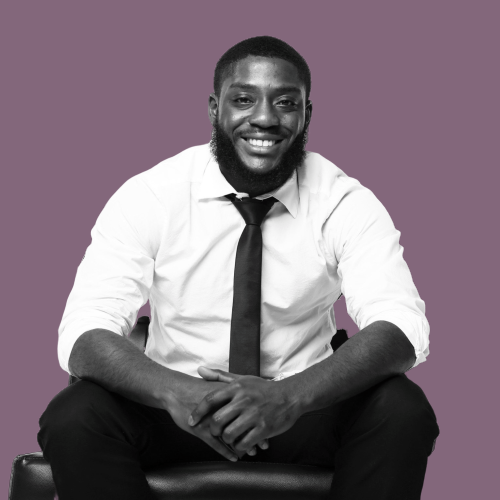
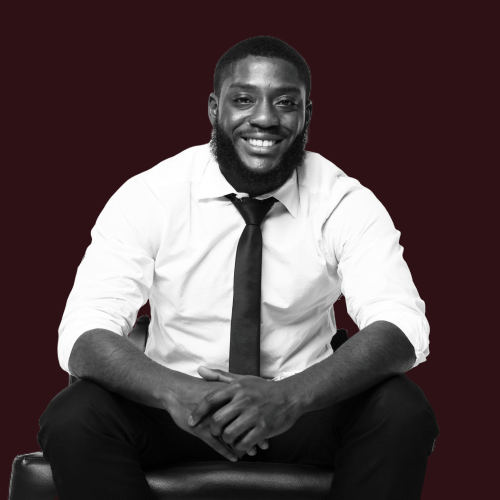
commit

diff --git a/src/css/FooterHome.css b/src/css/FooterHome.css
@@ -56,7 +56,7 @@
 }
 
 .footer{
-   background-color: #424949;
+   background-color: #2E1114;
     width: 100%;
     margin: auto;
 }
@@ -70,38 +70,32 @@
 	-moz-osx-font-smoothing:grayscale;
 }
 
-.fa-envelope {
-  background: none;
-  color: white;
-  margin-right:40px;
-  font-size:380%;
-}
 
 .fa-facebook {
   background: none;
   color: white;
   margin-right:40px;
-  font-size:380%;
+  font-size:250%;
 }
 
 .fa-instagram {
   background: none;
   color: white;
   margin-right:40px;
-  font-size:380%;
+  font-size:250%;
 }
 
 .fa-soundcloud {
   background: none;
   color: white;
   margin-right:40px;
-  font-size:380%;
+  font-size:250%;
 }
 
 .fa-youtube {
   background: none;
   color: white;
-  font-size:380%;
+  font-size:250%;
 }
 
 

diff --git a/src/css2/HomePage2.css b/src/css2/HomePage2.css
@@ -1,23 +1,23 @@
 .body{
-	background-color: #83677B;
+	background-color: #393f4d;
 }
 
 .display{
 	
 	font-family: 'Playfair Display';
-	color: #2E1114;
+	color: #feda6a;
 	font-size: 110px;
 }
 
 .display1{
 	
 	font-family: 'Playfair Display';
-	color: #83677B;
+	color: #393f4d;
 	font-size: 50px;
 }
 
 .container1{
-	background-color: #2E1114;
+	background-color: #feda6a;
 	left: 30px;
 }
 

diff --git a/src/css/HomePage.css b/src/css/HomePage.css
@@ -1,23 +1,23 @@
 .body{
-	background-color: #424949;
+	background-color: #2E1114;
 }
 
 .display{
 	
 	font-family: 'Playfair Display';
-	color: #feda6a;
+	color: white;
 	font-size: 110px;
 }
 
 .display1{
 	
 	font-family: 'Playfair Display';
-	color: #424949;
+	color: #2E1114;
 	font-size: 50px;
 }
 
 .container1{
-	background-color: #feda6a;
+	background-color: white;
 	left: 30px;
 }
 

diff --git a/src/css2/FooterHome2.css b/src/css2/FooterHome2.css
@@ -56,7 +56,7 @@
 }
 
 .footer{
-   background-color: #83677B;
+   background-color: #393f4d;
     width: 100%;
     margin: auto;
 }

diff --git a/src/HeaderHome2.php b/src/HeaderHome2.php
@@ -11,12 +11,12 @@
 <link href='https://fonts.googleapis.com/css?family=Playfair Display' rel='stylesheet'>
 <link href='https://fonts.googleapis.com/css?family=Poppins' rel='stylesheet'>
 <link href='https://fonts.googleapis.com/css?family=Sacramento' rel='stylesheet'>
-<link rel="stylesheet" type="text/css" href="css/Header.css" />
-<!-- <link rel="stylesheet" type="text/css" href="css2/Header2.css" /> -->
+<link rel="stylesheet" type="text/css" href="css2/Header2.css" />
 <body>	
 	<div class="jumbotron jumbotron-fluid">
       <div class="container text-center">
-        <h1 class="display-2">&#119070ax n'&#119070ip</h1>             
+        <h1 class="display-2" id="logo">&#119070ax n'&#119070ip</h1>             
+        
       </div>
     </div>
 	
@@ -29,28 +29,28 @@
                 <button class="navbar-toggler custom-toggler" type="button" data-toggle="collapse" data-target="#navbar1">
                     <span class="navbar-toggler-icon"></span>
                 </button>
-                <div class="collapse navbar-collapse" id="navbar1">
+                <div class="collapse navbar-collapse" id="navbar1" style="border-bottom: 1.5px solid #f7ef8a;">
                 	<div class="col-2"></div>
   					<div class="col-8">
                         <ul class="navbar-nav mr-auto">
                             <li class="nav-item">
-                                <a class="nav-link" href="Home.php"> HOME </a> 
+                                <a class="nav-link" href="HomePage.php"> HOME </a> 
                             </li>
                             <li class="nav-item">
-                                <a class="nav-link" href="About.php"> ABOUT </a>
+                                <a class="nav-link" href="About2.php"> ABOUT </a>
                             </li>
                             <li class="nav-item">
-                                <a class="nav-link" href="Gallery.php"> GALLERY </a>
+                                <a class="nav-link" href="Gallery2.php"> GALLERY </a>
                             </li>
                             <li class="nav-item">
-                                <a class="nav-link" href="Events.php"> EVENTS </a>
+                                <a class="nav-link" href="Events2.php"> EVENTS </a>
                             </li>
                             <li class="nav-item">
-                                <a class="nav-link" href="Booking.php"> BOOKING </a>
+                                <a class="nav-link" href="Booking2.php"> BOOKING </a>
                             </li>                            
                         </ul>
                     </div>
-                    <div class="col-2"></div>
+                    <div class="col-2"></div>                    
                 </div>
             </div>
         </nav>

diff --git a/src/Copy of HomePage.php b/src/Copy of HomePage.php
@@ -15,8 +15,10 @@
 	<?php
         include_once "HeaderHome.php";
     ?>
+	<div class="row">
+    <div class="column_home">
            
-     <br/>    
+     <br/><br/><br/><br/><br/><br/>     
  	<div class="text-center">
     	 <h1 class="display">Ben Joseph</h1>
         	 <div class="container1">
@@ -26,7 +28,7 @@
     	<div class= footer_no_selected>    
         <div class="footer-copyright text-center py-3">
       		<ul class="list-unstyled list-inline text-center">
-               	
+               	<br/>
                	
               	<li class="list-inline-item">
                     <a href="<?php
@@ -63,16 +65,21 @@
 		</div>	
   	</div>
   	</div>
+    </div>
     
-        <div class="w3-center">
-        <img class="img-fluid z-depth-1" src="photo/home2.png" ">
-        <br/><br/>	
-		</div>
-       
+    
+        <div class="column_home">
+            <br/>
+            <div class="w3-center">
+            <img class="img-fluid z-depth-1" src="photo/home.png" ">
+            <br/><br/>	
+    		</div>
+        </div>
+    </div>
          <div class="w3-center">
-            <audio controls>
-            	<source src="jazz.mp3" type="audio/mpeg">
-        	</audio>
+                <audio controls>
+                	<source src="jazz.mp3" type="audio/mpeg">
+            	</audio>
     	</div>
     
 	<?php

diff --git a/src/HomePage2.php b/src/HomePage2.php
@@ -4,7 +4,7 @@
 <title>Sax N Sip</title>
 <meta charset="utf-8">
 <meta name="viewport" content="width=device-width, initial-scale=1">
-<link rel="stylesheet" type="text/css" href="css/HomePage.css" />
+<link rel="stylesheet" type="text/css" href="css2/HomePage2.css" />
 <!-- <link rel="stylesheet" type="text/css" href="css/HomePage.css" /> -->
 <link rel="stylesheet"
 	href="https://maxcdn.bootstrapcdn.com/bootstrap/4.4.1/css/bootstrap.min.css">
@@ -13,7 +13,7 @@
 
 <div class="body">
 	<?php
-        include_once "HeaderHome.php";
+        include_once "HeaderHome2.php";
     ?>
            
      <br/>    
@@ -65,7 +65,7 @@
   	</div>
     
         <div class="w3-center">
-        <img class="img-fluid z-depth-1" src="photo/home2.png" ">
+        <img class="img-fluid z-depth-1" src="photo/home.png" ">
         <br/><br/>	
 		</div>
        
@@ -76,7 +76,7 @@
     	</div>
     
 	<?php
-    include_once "FooterHome.php";
+    include_once "FooterHome2.php";
     ?>
 </div>
 </html>

diff --git a/src/FooterHome2.php b/src/FooterHome2.php
@@ -1,0 +1,23 @@
+
+<footer class="page-footer font-small stylish-color-dark pt-4">
+    <div class= footer>
+    
+        <div class="container text-center text-md-left">	
+        <link rel="stylesheet" href="https://stackpath.bootstrapcdn.com/font-awesome/4.7.0/css/font-awesome.min.css">
+        <link rel="stylesheet" href="https://www.w3schools.com/w3css/4/w3.css">
+        <link href="//cdn-images.mailchimp.com/embedcode/classic-10_7.css" rel="stylesheet" type="text/css">
+    
+        <link rel="stylesheet" href="css2/FooterHome2.css">
+        <!-- <link rel="stylesheet" href="css/FooterHome.css"> -->
+        
+        <div class= footer_no_selected>    
+        <div class="footer-copyright text-center py-3">
+      	<div class="copyright">
+     		&copy; <script>document.write(new Date().getFullYear());</script> Copyright - Sax n Sip
+      	</div>
+      	
+  	</div>
+  	</div>
+</div>
+</div>
+</footer>

diff --git a/src/Footer2.php b/src/Footer2.php
@@ -143,7 +143,7 @@
   					<div class="col-8">
                         <ul class="navbar-nav mr-auto">
                             <li class="nav-item">
-                                <a class="nav-link" href="Home.php">HOME</a> 
+                                <a class="nav-link" href="HomePage2.php">HOME</a> 
                             </li>
                             <li class="nav-item">
                                 <a class="nav-link" href="About2.php">ABOUT</a>
